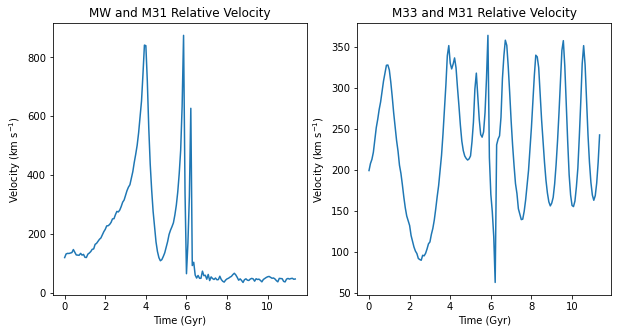
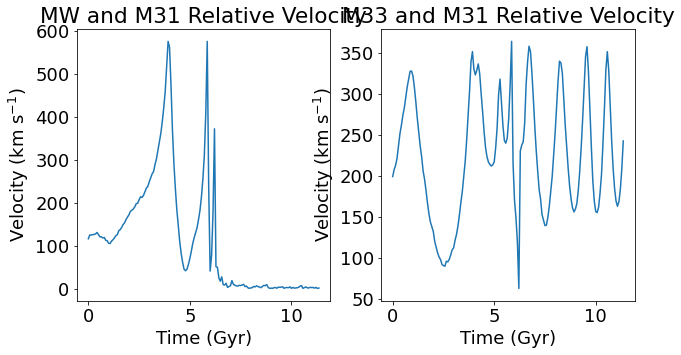
final HW6 revisions

Changed region(s): [[0.0, 0.0, 1.0, 0.991], [0.9223, 0.8709, 0.9531, 0.9309]]

diff --git a/Homework/Homework6/OrbitCOM.py b/Homework/Homework6/OrbitCOM.py
@@ -161,8 +161,8 @@ def vector_dif(vector1,vector2):
 # Determine the magnitude of the relative position and velocities 
 
 # of MW and M31
-MW_M31_dr=vector_dif([MW_data['x'],MW_data['y'],MW_data['z']],[M31_data['x']-MW_data['x'],M31_data['y']-MW_data['y'],M31_data['z']-MW_data['z']])
-MW_M31_dv=vector_dif([MW_data['vx'],MW_data['vy'],MW_data['vz']],[M31_data['vx']-MW_data['vx'],M31_data['vy']-MW_data['vy'],M31_data['vz']-MW_data['vz']])
+MW_M31_dr=vector_dif([MW_data['x'],MW_data['y'],MW_data['z']],[M31_data['x'],M31_data['y'],M31_data['z']])
+MW_M31_dv=vector_dif([MW_data['vx'],MW_data['vy'],MW_data['vz']],[M31_data['vx'],M31_data['vy'],M31_data['vz']])
 
 # of M33 and M31
 M33_M31_dr=vector_dif([M33_data['x'],M33_data['y'],M33_data['z']],[M31_data['x'],M31_data['y'],M31_data['z']])
@@ -175,7 +175,7 @@ fig,ax=plt.subplots(1,2,figsize=(10,5))
 
 ax[0].set(title='MW and M31 Relative Distance', xlabel='Time (Gyr)', ylabel='Distance (kpc)')
 ax[0].plot(MW_data['t'],MW_M31_dr)
-print(len(MW_data['t']))
+
 
 ax[1].set(title='M33 and M31 Relative Distance', xlabel='Time (Gyr)', ylabel='Distance (kpc)')
 ax[1].plot(MW_data['t'],M33_M31_dr)
